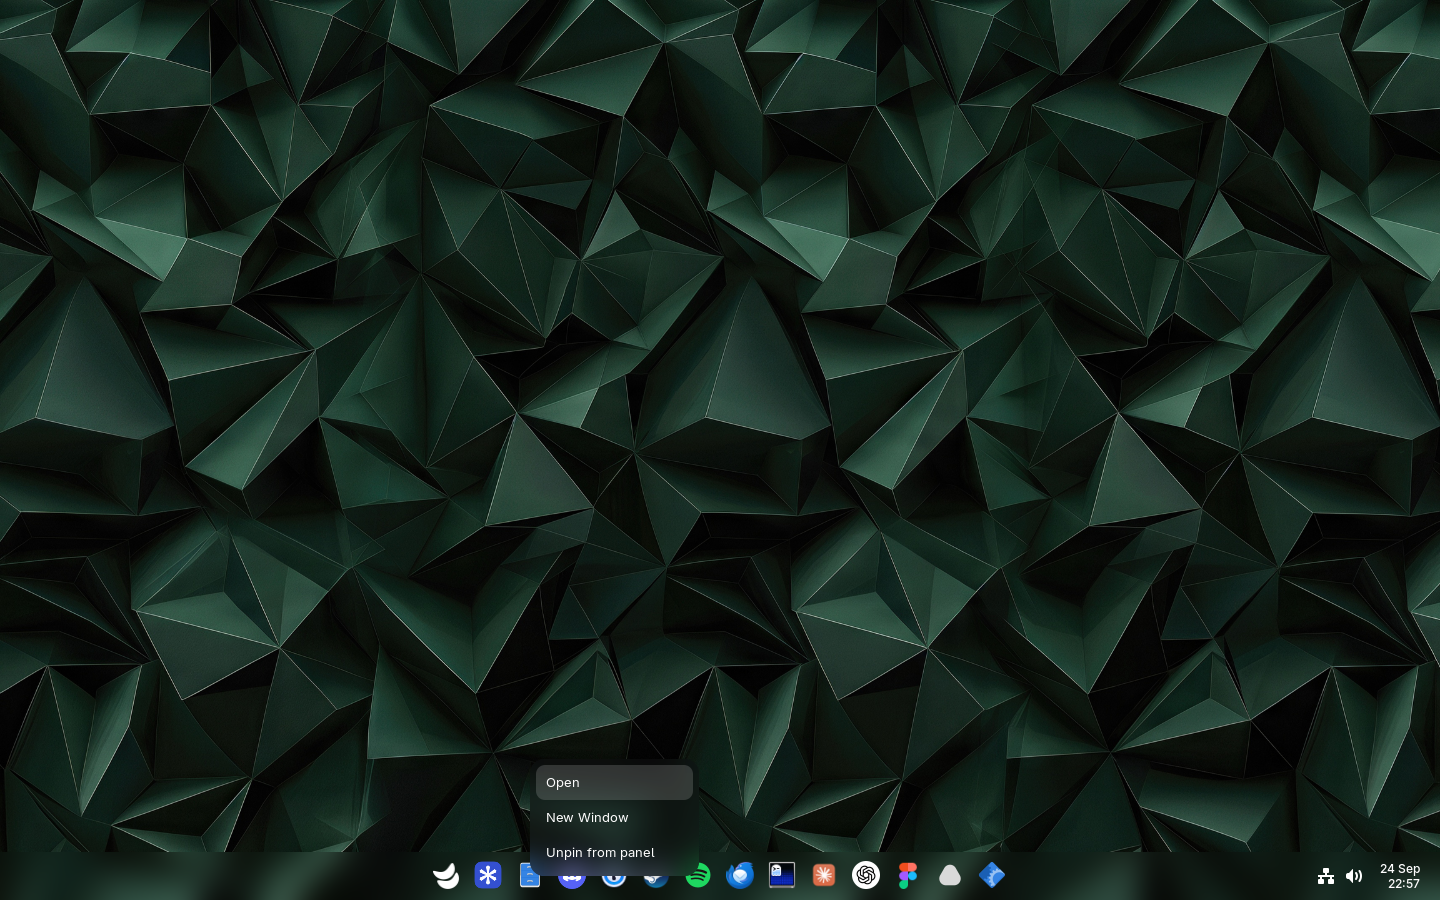
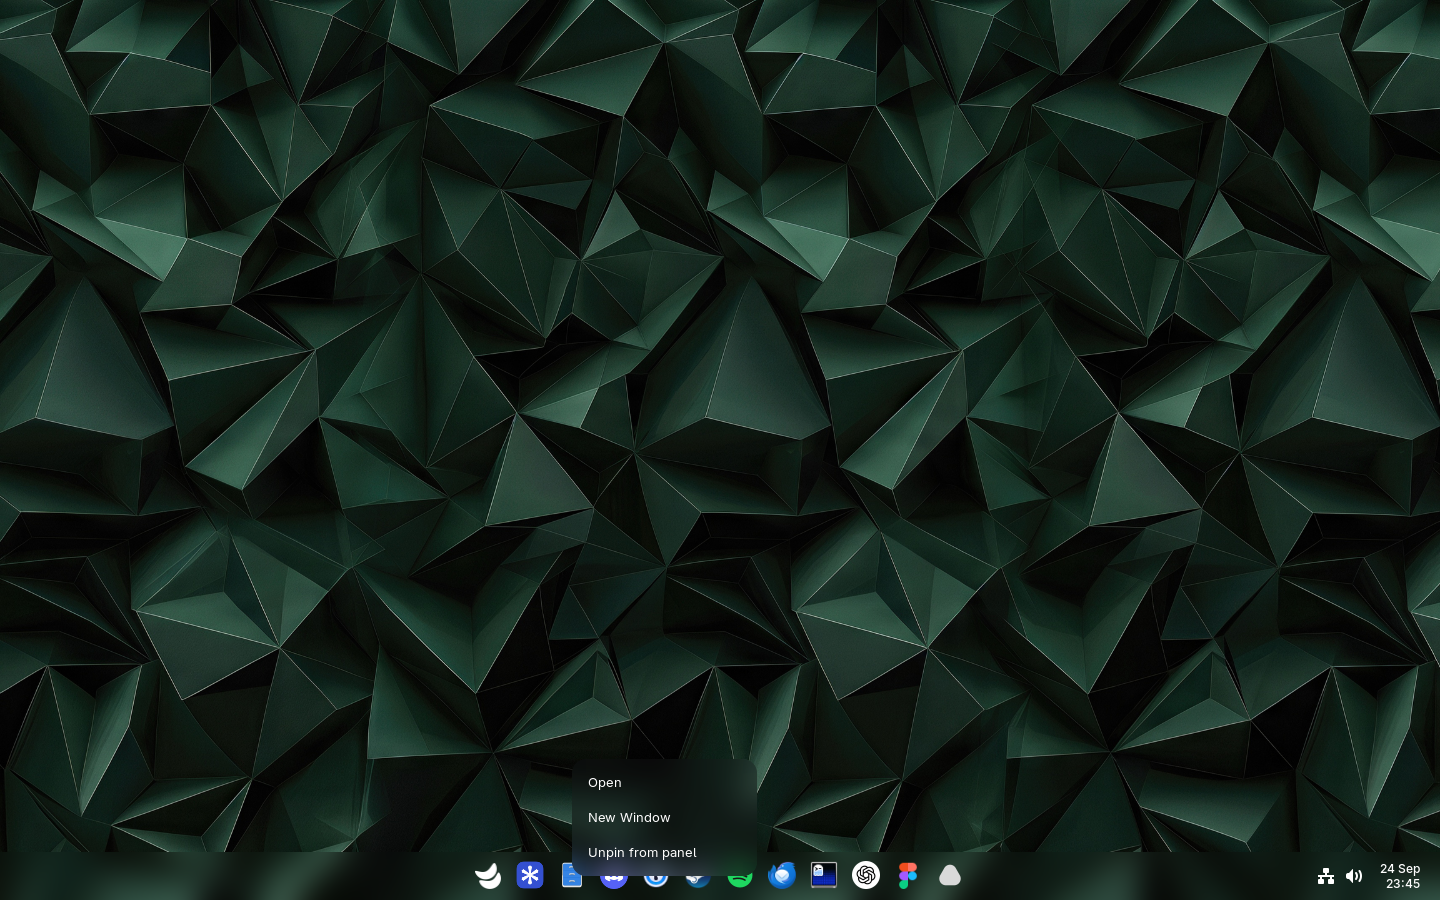
Give context menus more room and select items only on interaction

Changed region(s): [[0.2812, 0.84, 0.5938, 0.9956], [0.6562, 0.9644, 0.7188, 0.9956], [0.9688, 0.9644, 1.0, 0.9956]]

diff --git a/kestrel/ui/src/contextMenus.ts b/kestrel/ui/src/contextMenus.ts
@@ -29,7 +29,7 @@ export class ContextMenus {
       const key = event.get_key_symbol();
       if (key === Clutter.KEY_Escape) { this.close(); return Clutter.EVENT_STOP; }
       if ([Clutter.KEY_Down, Clutter.KEY_Up, Clutter.KEY_Tab].includes(key)) {
-        this.actor.navigate_focus(null, key === Clutter.KEY_Up ? St.DirectionType.TAB_BACKWARD : St.DirectionType.TAB_FORWARD, true);
+        this.actor.navigate_focus((global as unknown as Shell.Global).stage.get_key_focus(), key === Clutter.KEY_Up ? St.DirectionType.TAB_BACKWARD : St.DirectionType.TAB_FORWARD, true);
         return Clutter.EVENT_STOP;
       }
       return Clutter.EVENT_PROPAGATE;
@@ -106,7 +106,9 @@ export class ContextMenus {
       const button = new St.Button({ style_class: 'kestrel-context-action', accessible_name: entry.label, can_focus: entry.enabled !== false, reactive: entry.enabled !== false, opacity: entry.enabled === false ? 110 : 255, track_hover: true, x_expand: true,
         child: new St.Label({ text: entry.label, x_expand: true, x_align: Clutter.ActorAlign.START }) });
       button.connect('notify::hover', () => {
-        if (button.hover && this.source && !this.clearSelection) button.grab_key_focus();
+        if (!this.source || this.clearSelection) return;
+        if (button.hover) button.grab_key_focus();
+        else if ((global as unknown as Shell.Global).stage.get_key_focus() === button) this.actor.grab_key_focus();
       });
       button.connect('clicked', () => { this.close(); entry.run(); });
       content.add_child(button);
@@ -115,7 +117,7 @@ export class ContextMenus {
     scroll.child = content;
     this.actor.add_child(scroll);
     this.actor.show();
-    this.actor.width = Math.min(monitor.width - 16, Math.max(144, Math.min(420, content.get_preferred_width(-1)[1] + 40)));
+    this.actor.width = Math.min(monitor.width - 16, Math.max(144, Math.min(420, content.get_preferred_width(-1)[1] + 56)));
     scroll.height = Math.min(content.get_preferred_height(this.actor.width - 12)[1], monitor.height - 40);
     const stage = (global as unknown as Shell.Global).stage;
     this.shield.set_position(0, 0);
@@ -129,7 +131,7 @@ export class ContextMenus {
     this.actor.opacity = 0;
     this.actor.translation_y = 6;
     animateActor(this.actor, { opacity: 255, translation_y: 0, duration: 130, mode: Clutter.AnimationMode.EASE_OUT_QUAD });
-    this.actor.navigate_focus(null, St.DirectionType.TAB_FORWARD, false);
+    this.actor.grab_key_focus();
   }
 
   close(immediate = false): void {
